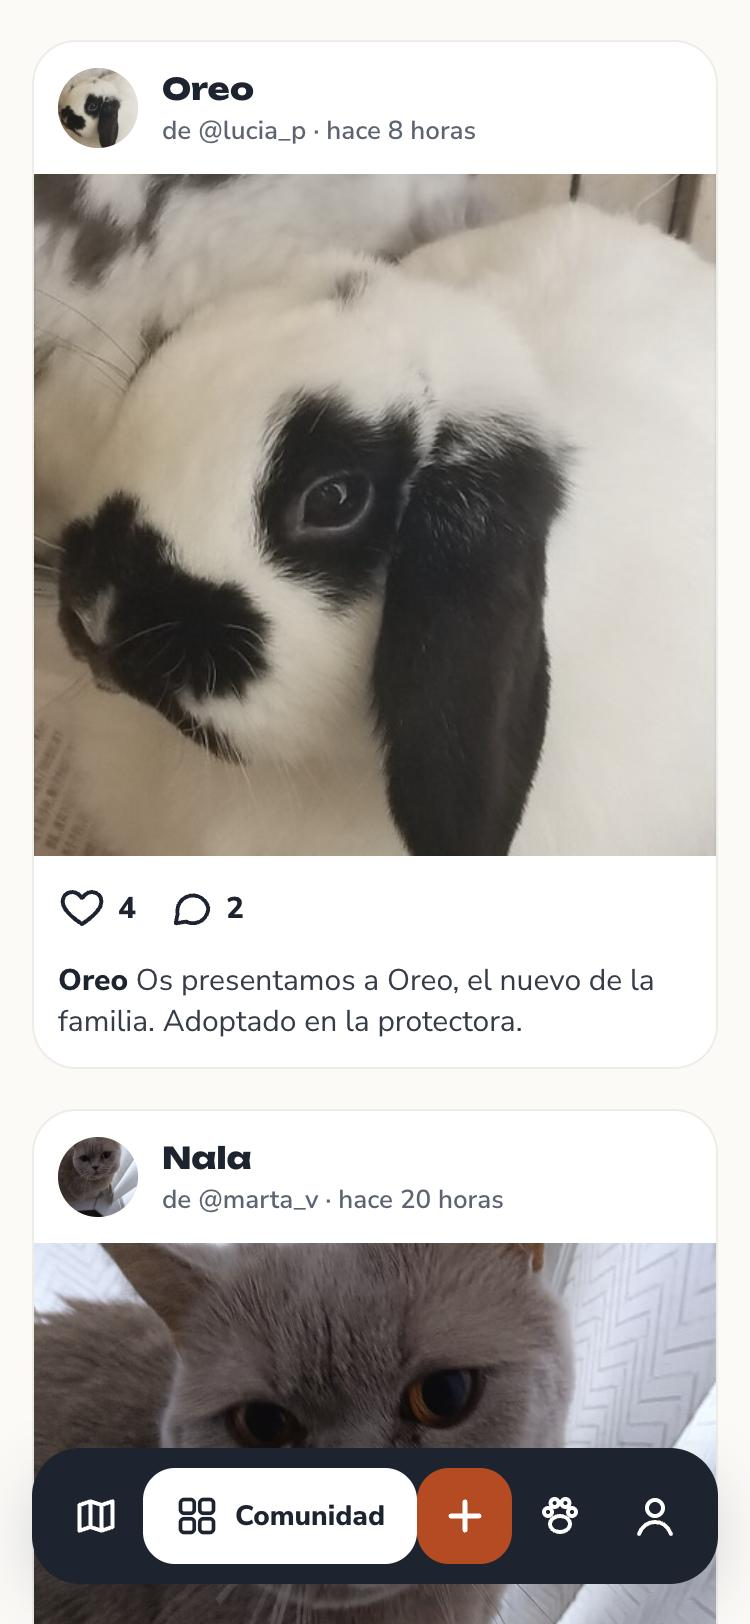
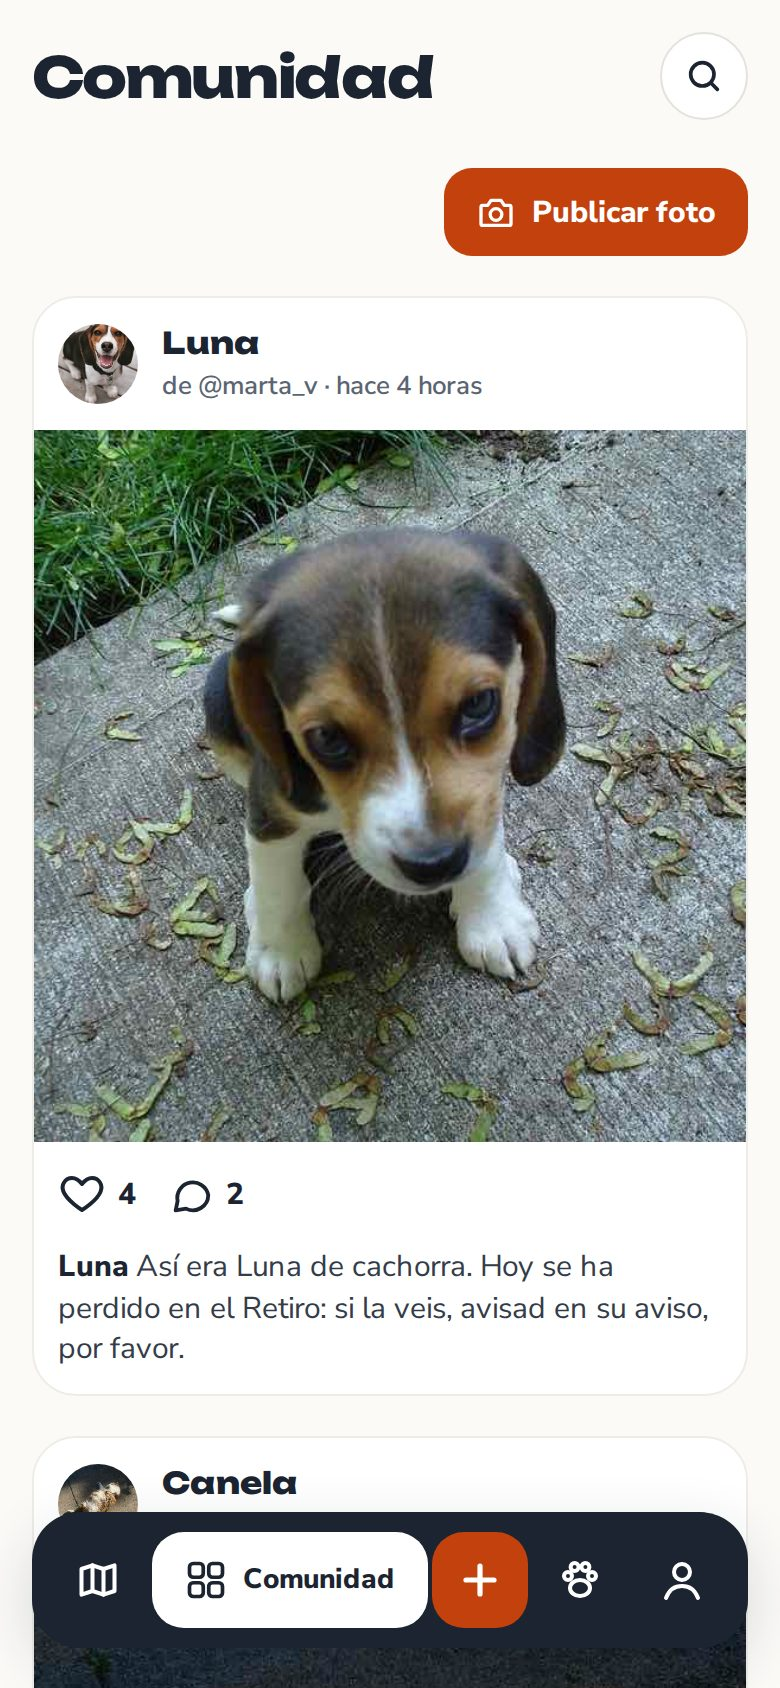
docs: capturas nuevas del README (mapa, coincidencias, comunidad, escritorio y cartel)

diff --git a/furrly.md b/furrly.md
@@ -60,7 +60,6 @@ Hecho, probado (75 tests de API, 23 de componentes y 14 end-to-end en CI) y desp
 
 ### Hoja de ruta (de más a menos importante)
 1. **Dominio propio** (actualizando las URLs de Supabase Auth)
-2. **Pulido técnico**: `tailwind-merge` y geocodificación a través de la API
 
 ### Notas operativas
 - Supabase: proyecto `furrly` (ref `dgaiisrusilbieffjcdh`); Auth → URL Configuration ya apunta a la URL de Vercel y a `http://localhost:5173/**`
@@ -71,6 +70,8 @@ Hecho, probado (75 tests de API, 23 de componentes y 14 end-to-end en CI) y desp
 - **Supabase Auth**: contraseña de 8 caracteres mínimo también en el servidor. La protección contra contraseñas filtradas requiere el plan Pro (no activada). El captcha no se activa sin añadirlo antes a los formularios
 - **Fotos**: se comprimen en el navegador (lib/compressImage.ts). Cron de Vercel a las 4:00 (`/api/cron/storage-cleanup`) que borra las huérfanas de más de un día; necesita `SUPABASE_SERVICE_ROLE_KEY` y `CRON_SECRET` en Vercel
 - **Tiempo real** (lib/realtime.ts en API y web): timbre por el canal privado `user:<id>` de Supabase Realtime; usa `SUPABASE_SERVICE_ROLE_KEY`. Política RLS en `realtime.messages` creada por la migración `realtime_channels`
+- **Capturas del README**: workflow «Capturas» (apps/web/scripts/capturas.mjs) contra producción; descargar el artefacto y copiarlo a docs/capturas
+- **Geocodificación** por la API (`GET /geocode`, caché de Vercel un día) y `cx` con tailwind-merge
 - **Sentry** (región UE): `SENTRY_DSN` (API) y `VITE_SENTRY_DSN` (web) en Vercel; sin ellas no se envía nada. La web lo carga en segundo plano
 - **Moderadores**: `UPDATE users SET is_admin = true WHERE username = '...'` en Supabase (ahora solo @nabil)
 - **Login con Google**: cliente OAuth en Google Cloud (proyecto `furrly`, Google Auth Platform) con el ID y secreto pegados en Supabase → Sign In / Providers → Google. Apple necesitaría cuenta de Apple Developer (99 €/año); el botón aparecería solo al activarlo en Supabase

diff --git a/README.md b/README.md
@@ -11,9 +11,14 @@ para compartir fotos de tus mascotas.
 
 <p align="center">
   <img src="docs/capturas/mapa.jpg" alt="Mapa de avisos cerca" width="230">
-  <img src="docs/capturas/ficha.jpg" alt="Ficha de un aviso de mascota perdida" width="230">
+  <img src="docs/capturas/coincidencias.jpg" alt="Ficha de un perro perdido con un posible encontrado cerca" width="230">
   <img src="docs/capturas/comunidad.jpg" alt="Feed de la comunidad" width="230">
 </p>
+<p align="center">
+  <img src="docs/capturas/escritorio.jpg" alt="Mapa y lista de avisos en escritorio" width="560">
+  <img src="docs/capturas/cartel.jpg" alt="Cartel A4 para imprimir con código QR" width="250">
+</p>
+<p align="center"><sub>Capturas hechas contra producción con Playwright (workflow <a href=".github/workflows/capturas.yml">Capturas</a>).</sub></p>
 
 > Móvil primero; en escritorio la navegación pasa a una barra lateral y las páginas a dos columnas.
 > La demo tiene datos de ejemplo (vecinos, mascotas, avisos y publicaciones alrededor de Madrid centro).
